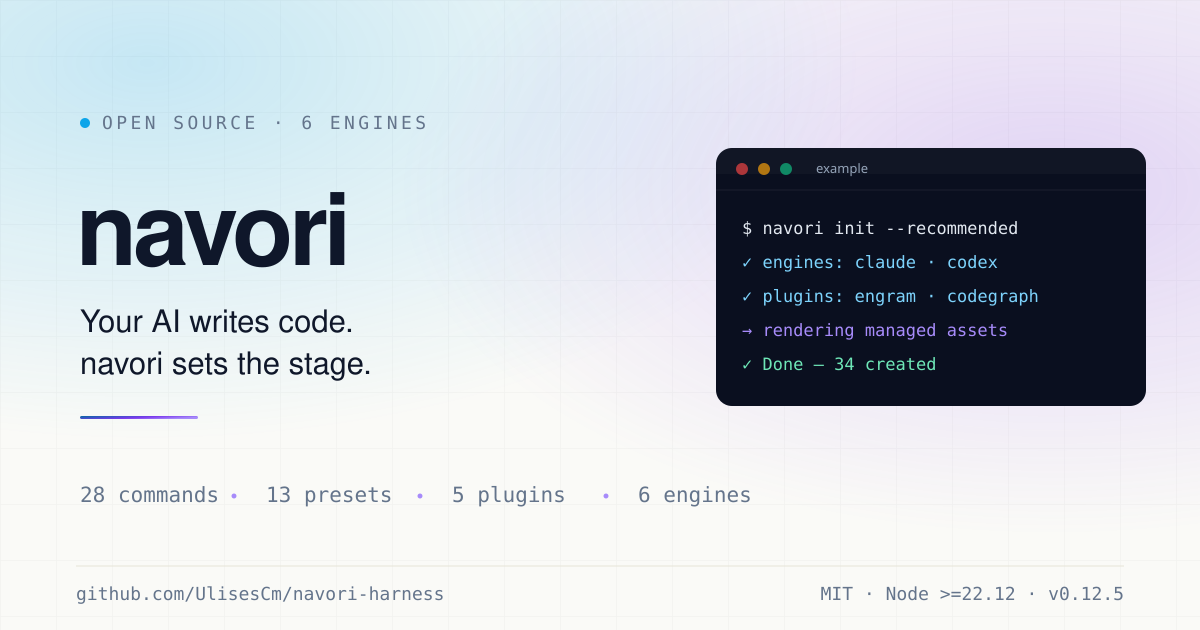
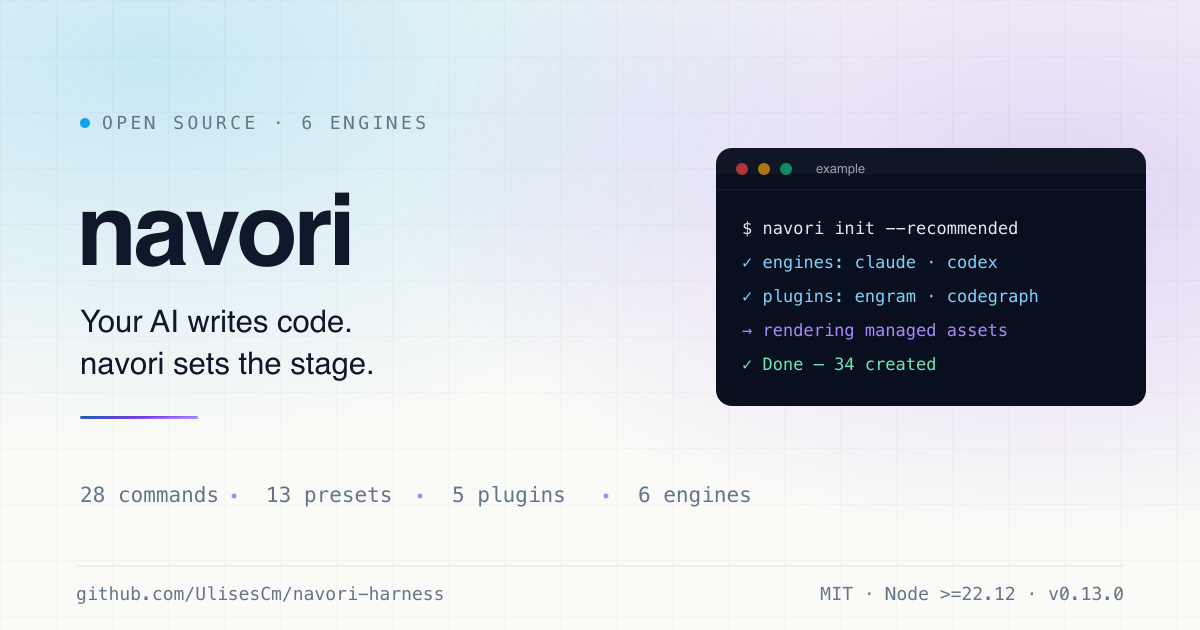
chore(release): regenera goldens y og a 0.13.0

Changed region(s): [[0.0925, 0.4825, 0.3083, 0.6032], [0.1233, 0.3016, 0.3083, 0.4222], [0.6783, 0.2413, 0.7092, 0.2714]]

diff --git a/packages/cli/src/lib/render/__tests__/removable-native-signature.test.ts b/packages/cli/src/lib/render/__tests__/removable-native-signature.test.ts
@@ -15,7 +15,7 @@ const block = injectManagedSection(
   "",
   "guard-destructive-base",
   "#!/usr/bin/env bash\nexit 0",
-  { source: "@navori/core", version: "0.12.5" },
+  { source: "@navori/core", version: "0.13.0" },
   "shell",
 ).output;
 
